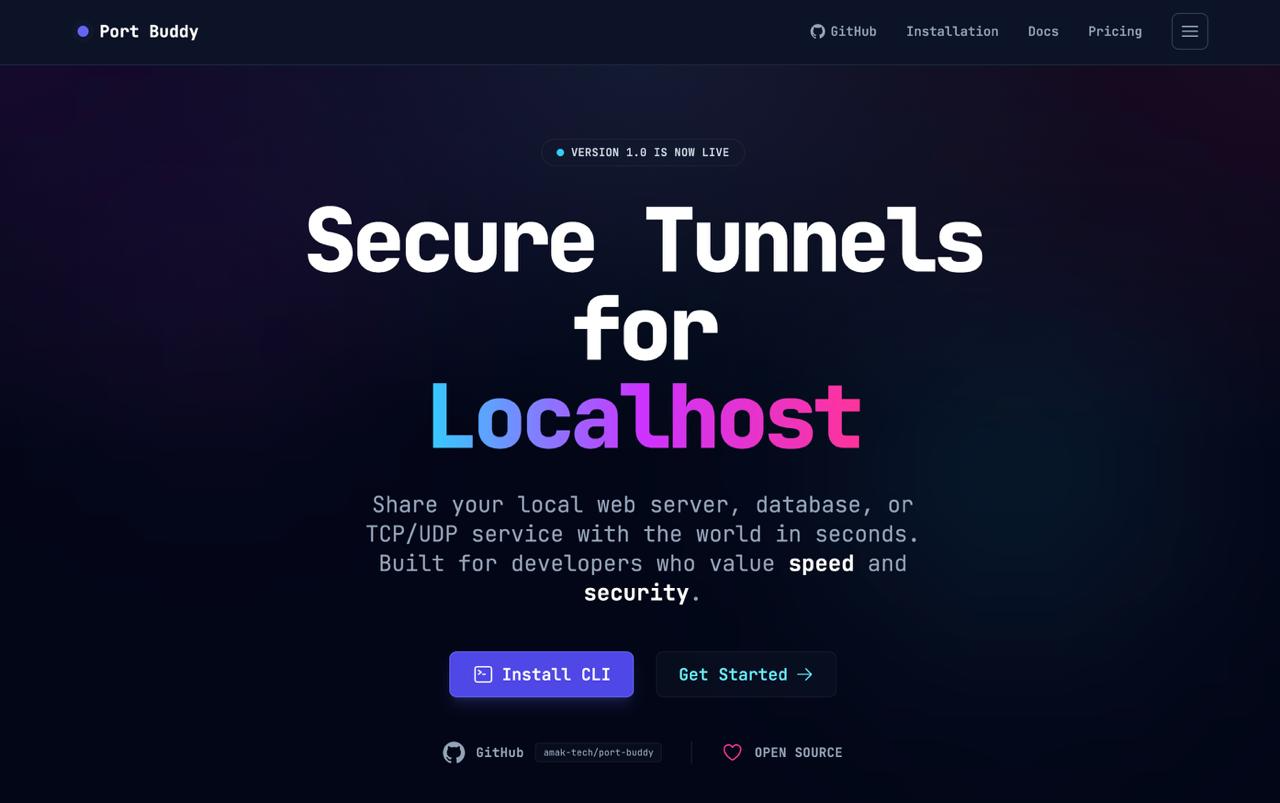
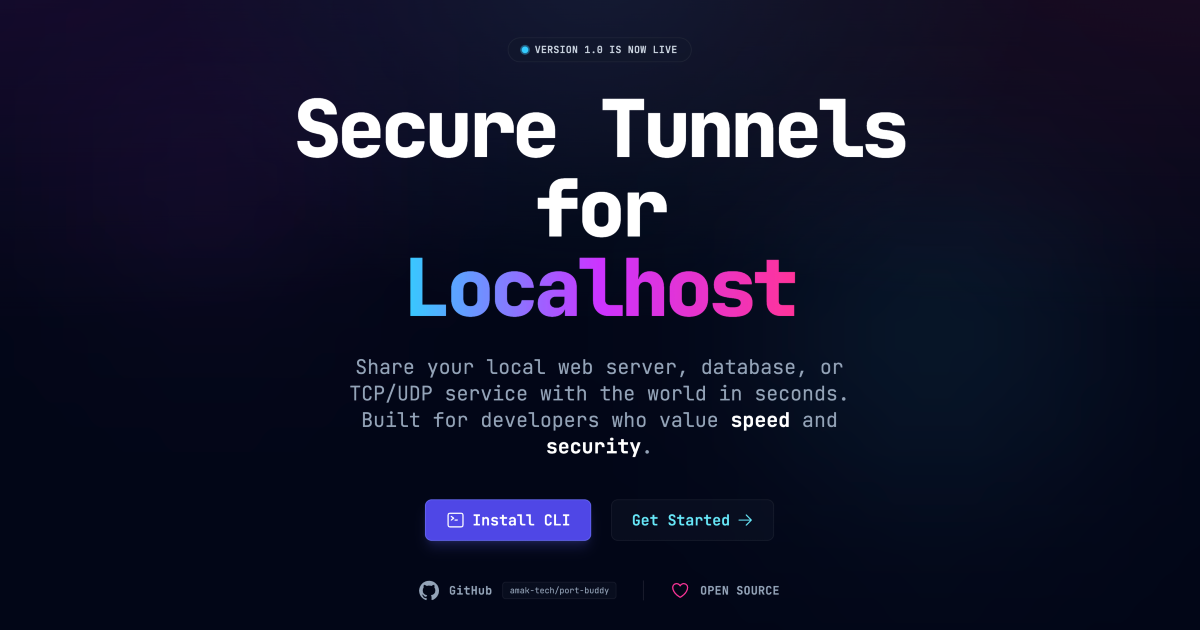
Landing update (#47)
* update landing

diff --git a/web/index.html b/web/index.html
@@ -2,9 +2,11 @@
 <html lang="en">
   <head>
     <meta charset="UTF-8" />
+    <title>Port Buddy</title>
     <meta name="viewport" content="width=device-width, initial-scale=1.0" />
     <meta name="description" content="Port Buddy — a modern, simple ngrok alternative to expose your local HTTP, TCP and UDP ports to the internet securely." />
     <meta name="theme-color" content="#0b1020" />
+    <meta name="robots" content="index,follow"/>
     <!-- Build-time rendered canonical URL; set VITE_CANONICAL in your .env(.production) -->
     <link rel="canonical" href="%VITE_CANONICAL%" />
 
@@ -14,24 +16,23 @@
     <meta property="og:url" content="%VITE_OG_URL%" />
     <meta property="og:title" content="Port Buddy — Expose local ports to the internet in seconds" />
     <meta property="og:description" content="Share your local web server, database, or TCP/UDP service with the world in seconds. Built for developers who value speed and security." />
-    <meta property="og:image" content="/og-image.png" />
-    <meta property="og:site_name" content="Port Buddy">
+    <meta property="og:image" content="%VITE_OG_URL%/og-image.png" />
+    <meta property="og:site_name" content="Port Buddy" />
     <meta property="og:locale" content="en_US">
 
     <meta name="twitter:card" content="summary_large_image" />
     <meta name="twitter:title" content="Port Buddy — Expose local ports to the internet in seconds" />
     <meta name="twitter:description" content="Share your local web server, database, or TCP/UDP service with the world in seconds. Built for developers who value speed and security." />
-    <meta name="twitter:image" content="/og-image.png" />
-    <meta name="twitter:creator" content="@anton_liashenka">
+    <meta name="twitter:image" content="%VITE_OG_URL%/og-image.png" />
+    <meta name="twitter:creator" content="@anton_liashenka" />
 
-    <link rel="sitemap" href="/sitemap.xml">
+    <link rel="sitemap" href="%VITE_CANONICAL%/sitemap.xml" />
 
-    <link rel="icon" href="/favicon.ico">
+    <link rel="icon" href="/favicon.ico" />
     <link rel="icon" type="image/svg+xml" href="/favicon.svg" />
     <link rel="apple-touch-icon" href="/apple-touch-icon.png" />
     <link rel="manifest" href="/site.webmanifest" />
 
-    <title>Port Buddy</title>
     <link rel="preconnect" href="https://fonts.googleapis.com">
     <link rel="preconnect" href="https://fonts.gstatic.com" crossorigin>
     <link href="https://fonts.googleapis.com/css2?family=JetBrains+Mono:ital,wght@0,100..800;1,100..800&display=swap" rel="stylesheet">
